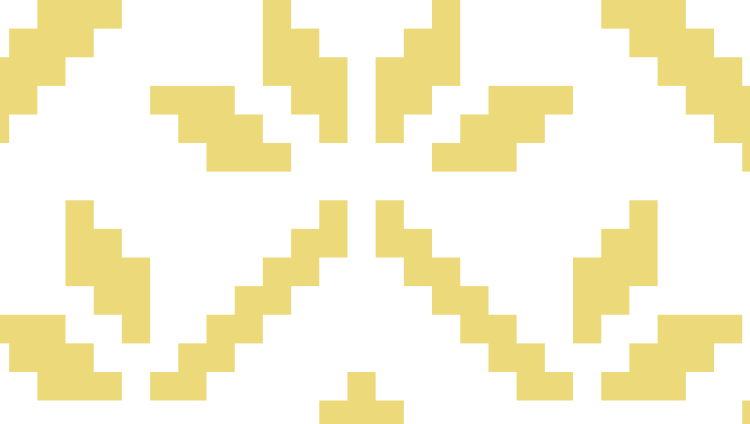
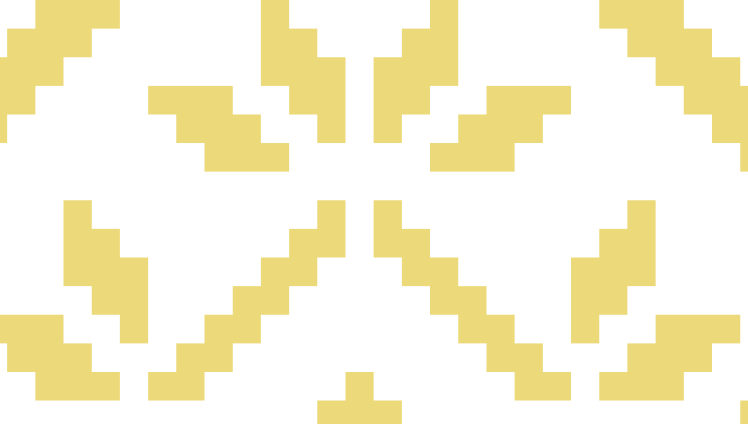
footer next

diff --git a/src/css/footer.css b/src/css/footer.css
@@ -4,12 +4,12 @@
  .footer-section {
     border-top: 1px solid rgba(252, 249, 249, 0.10);
     background: #1C2225;
-    position: relative;
-    z-index: 999999;
-    bottom: 0;
-    left: 0;
-     }
-
+    background-image: url(../img/footer/mob.png);
+    background-repeat: no-repeat;
+    background-position-x: center;
+    background-position-y: bottom;
+    }
+     
  .footer-aria {
     min-width: 320px;
     padding-top: 40px;
@@ -22,31 +22,14 @@
     justify-content: center;
     }
 
-.footer-fone {
-    background-image: url(../img/footer/mob.png);
-    background-repeat: no-repeat;
-    position: absolute;
-    right: -39px;
-    left: -38px;
-    bottom: -189px;
-    top: 437px;
-    width: 452px;
-    height: 401px;
-    background-position-x: center;
-    background-size: auto auto;
-    margin-bottom: 0;
-    background-origin: border-box;
-}
  
-@media screen and (min-resolution: 192dpi) and (max-width: 767px),
+ @media screen and (min-resolution: 192dpi) and (max-width: 767px),
 screen and (min-resolution: 2dppx) and (max-width: 767px),
 screen and (min-device-pixel-ratio: 2) and (max-width:767px){
-    .footer-fone {
+    .footer-section {
     background-image: url(../img/footer/mob@2x.png);
     }   
-}
-
-
+} 
 
 .footer-list {
     display: inline-flex;
@@ -99,18 +82,20 @@ screen and (min-device-pixel-ratio: 2) and (max-width:767px){
 /* 768px - 1280px - ... */
 
 @media screen and (min-width: 768px)   {
-    .footer-fone {
-        background-image: url(../img/footer/tab.png);
+    .footer-section {
+        background-image: url(../img/footer/tab1.png);
+        background-position-x: right;
+        background-position-y: top;
         }   
 }
 
-@media screen and (min-resolution: 192dpi) and (min-width: 768px),
+ @media screen and (min-resolution: 192dpi) and (min-width: 768px),
 screen and (min-resolution: 2dppx) and (min-width: 768px),
 screen and (min-device-pixel-ratio: 2) and (min-width:768px){
-    .footer-fone {
-    background-image: url(../img/footer/tab@2x.png);
+    .footer-section {
+    background-image: url(../img/footer/elements@2x.png);
     }   
-}
+} 
 
 
 @media screen and (min-width: 768px)  {
@@ -126,17 +111,7 @@ screen and (min-device-pixel-ratio: 2) and (min-width:768px){
     justify-content: space-between;
 }
 
- .footer-fone {
-    top: 1px;
-    left: 594px;
-    right: 2px;
-    bottom: 2px;
-    width: 176px;
-    height: 371px;
-    background-position-x: right;
- } 
-
- .embroidery-culture {
+  .embroidery-culture {
     font-size: 54px;
     line-height: 1.18;
     width: 521px;
@@ -159,16 +134,16 @@ screen and (min-device-pixel-ratio: 2) and (min-width:768px){
 
 
 @media screen and (min-width: 1280px)   {
-    .footer-fone {
-        background-image: url(../img/footer/dt8.png);
+    .footer-section {
+        background-image: url(../img/footer/dt.png);
         }   
 }
 
 @media screen and (min-resolution: 192dpi) and (min-width: 1280px),
 screen and (min-resolution: 2dppx) and (min-width: 1280px),
 screen and (min-device-pixel-ratio: 2) and (min-width: 1280px){
-    .footer-fone {
-    background-image: url(../img/footer/dt8@2x.png);
+    .footer-section {
+    background-image: url(../img/footer/dt@2x.png);
     }   
 }
 
@@ -181,17 +156,6 @@ screen and (min-device-pixel-ratio: 2) and (min-width: 1280px){
     padding-left: 100px;
     padding-bottom: 40px;
     }
-
- .footer-fone {
-    right: 0;
-    top: 0;
-    bottom: 0;
-    left: 944px;
-    width: 334px;
-    height: 367px;
- } 
-
-
 
  .embroidery-culture {
     font-size: 64px;

diff --git a/src/partials/footer.html b/src/partials/footer.html
@@ -1,4 +1,3 @@
-
 <section class="footer-section">
   <div class="footer-aria container">
     <ul class="footer-list">
